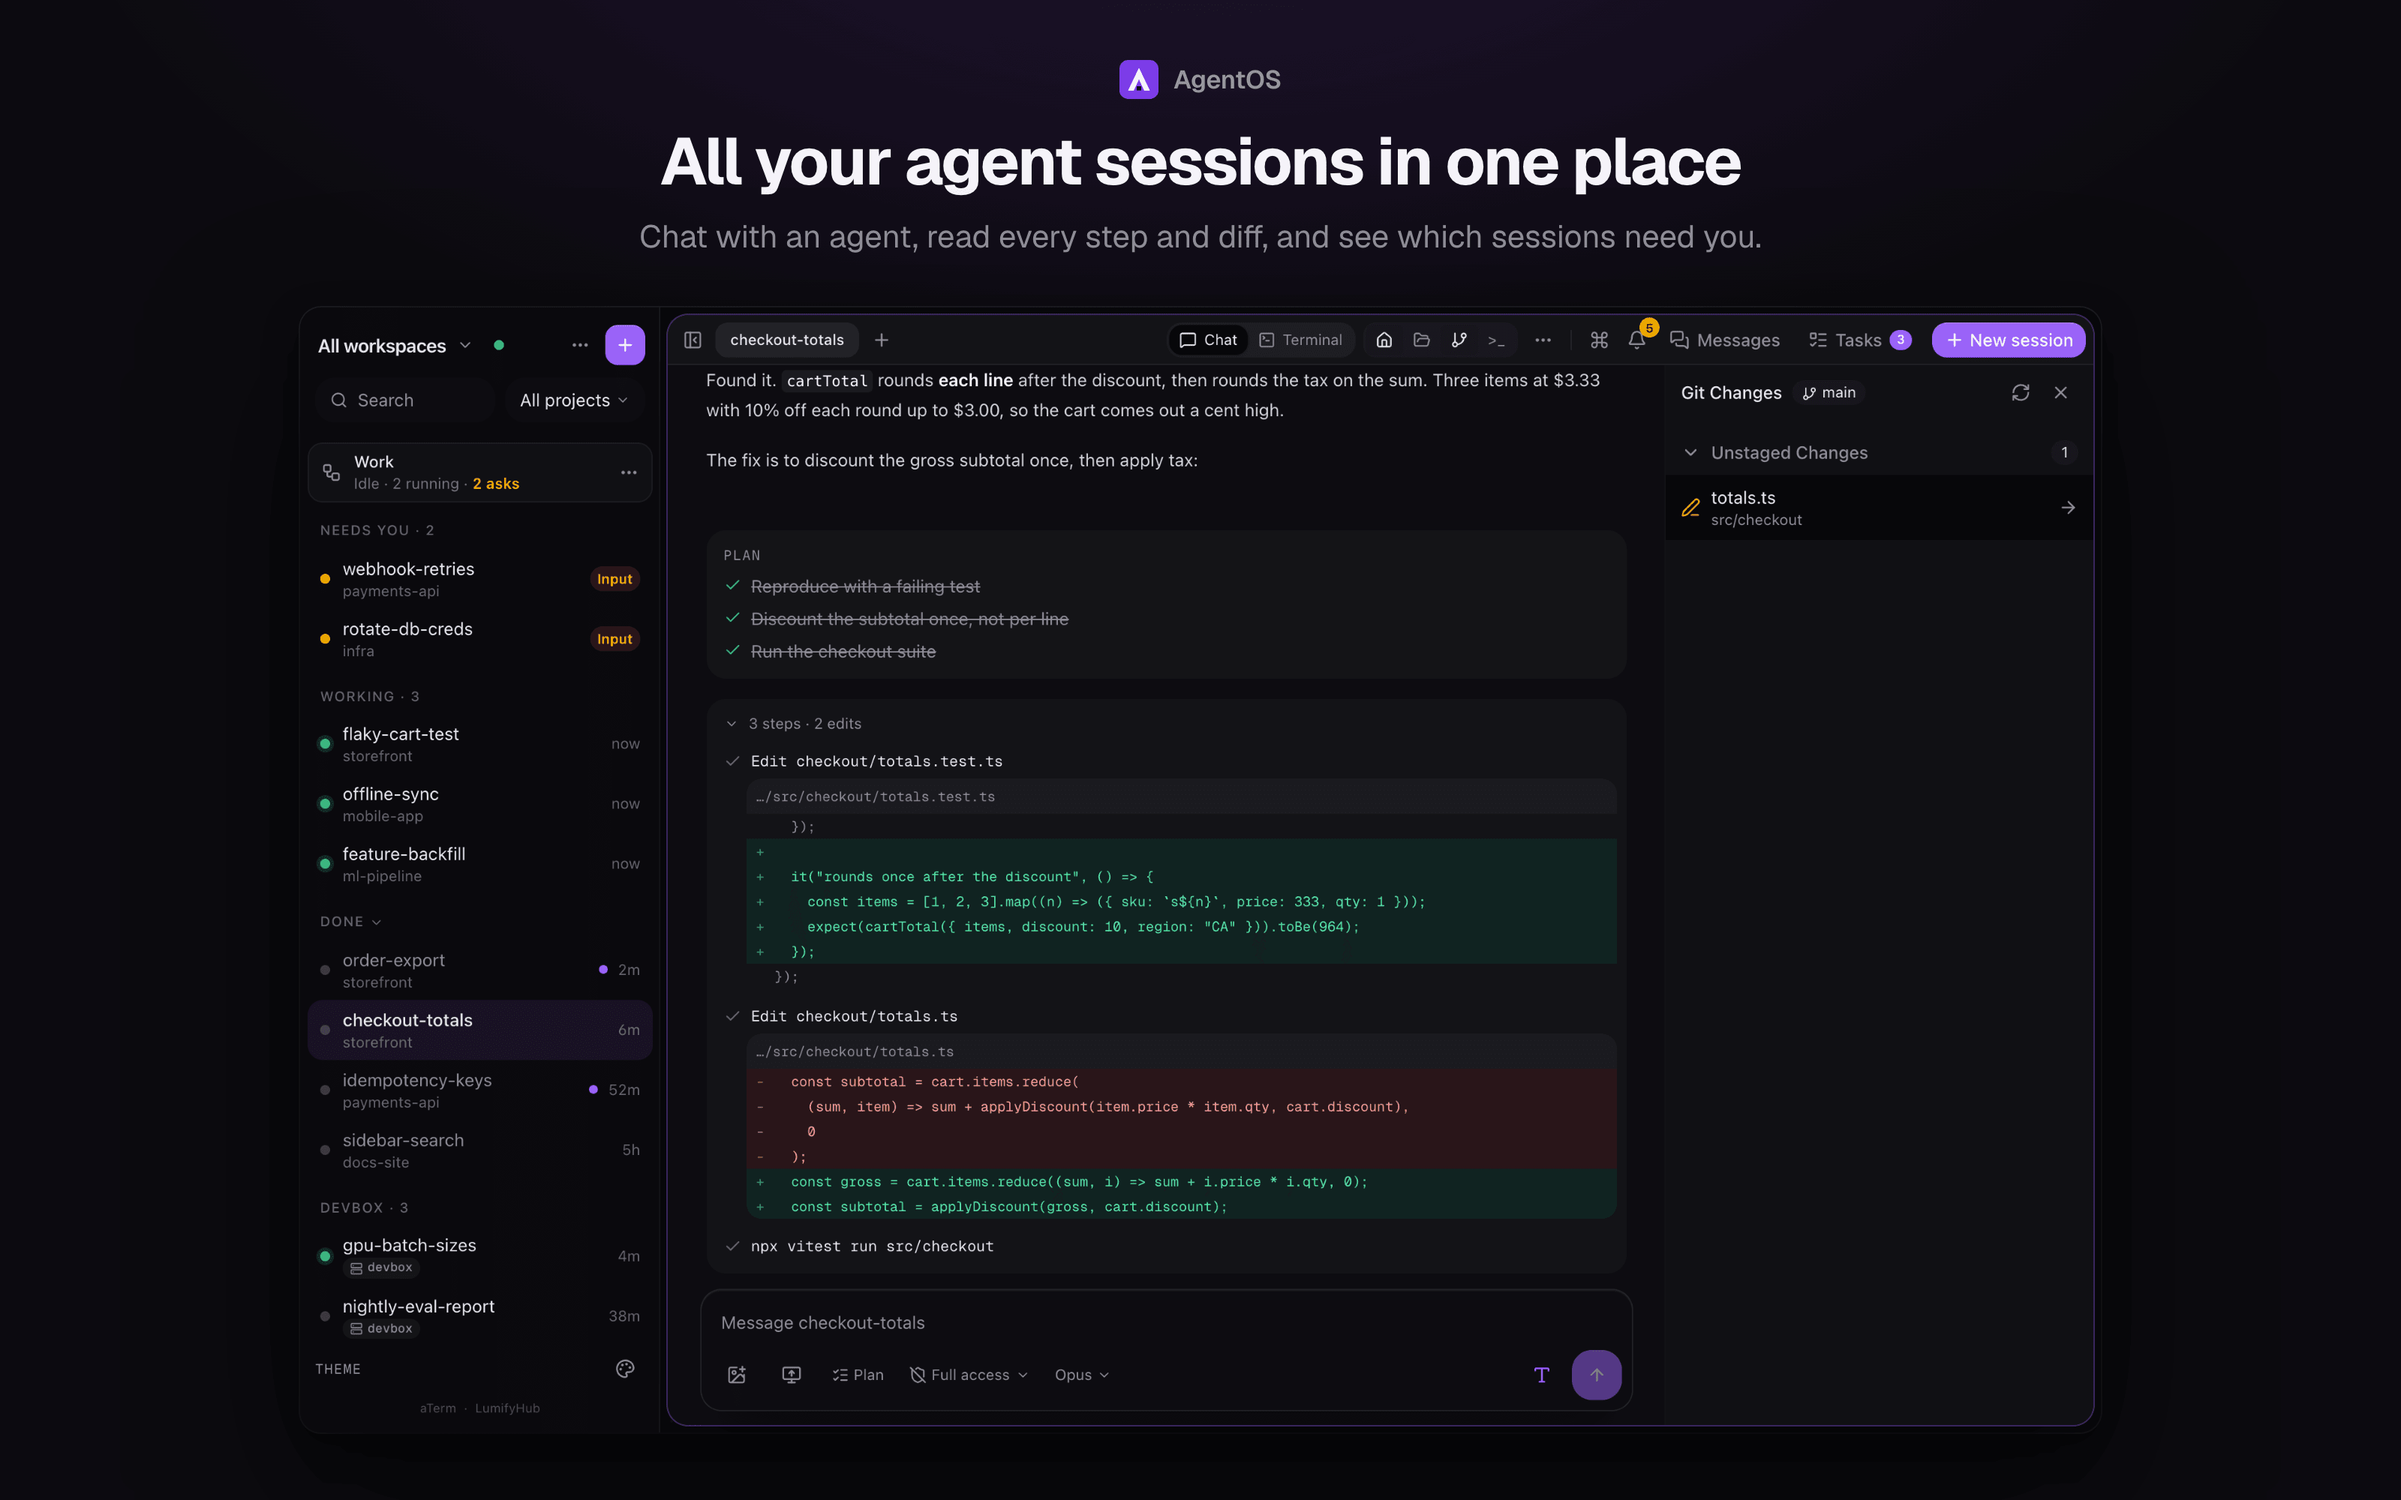
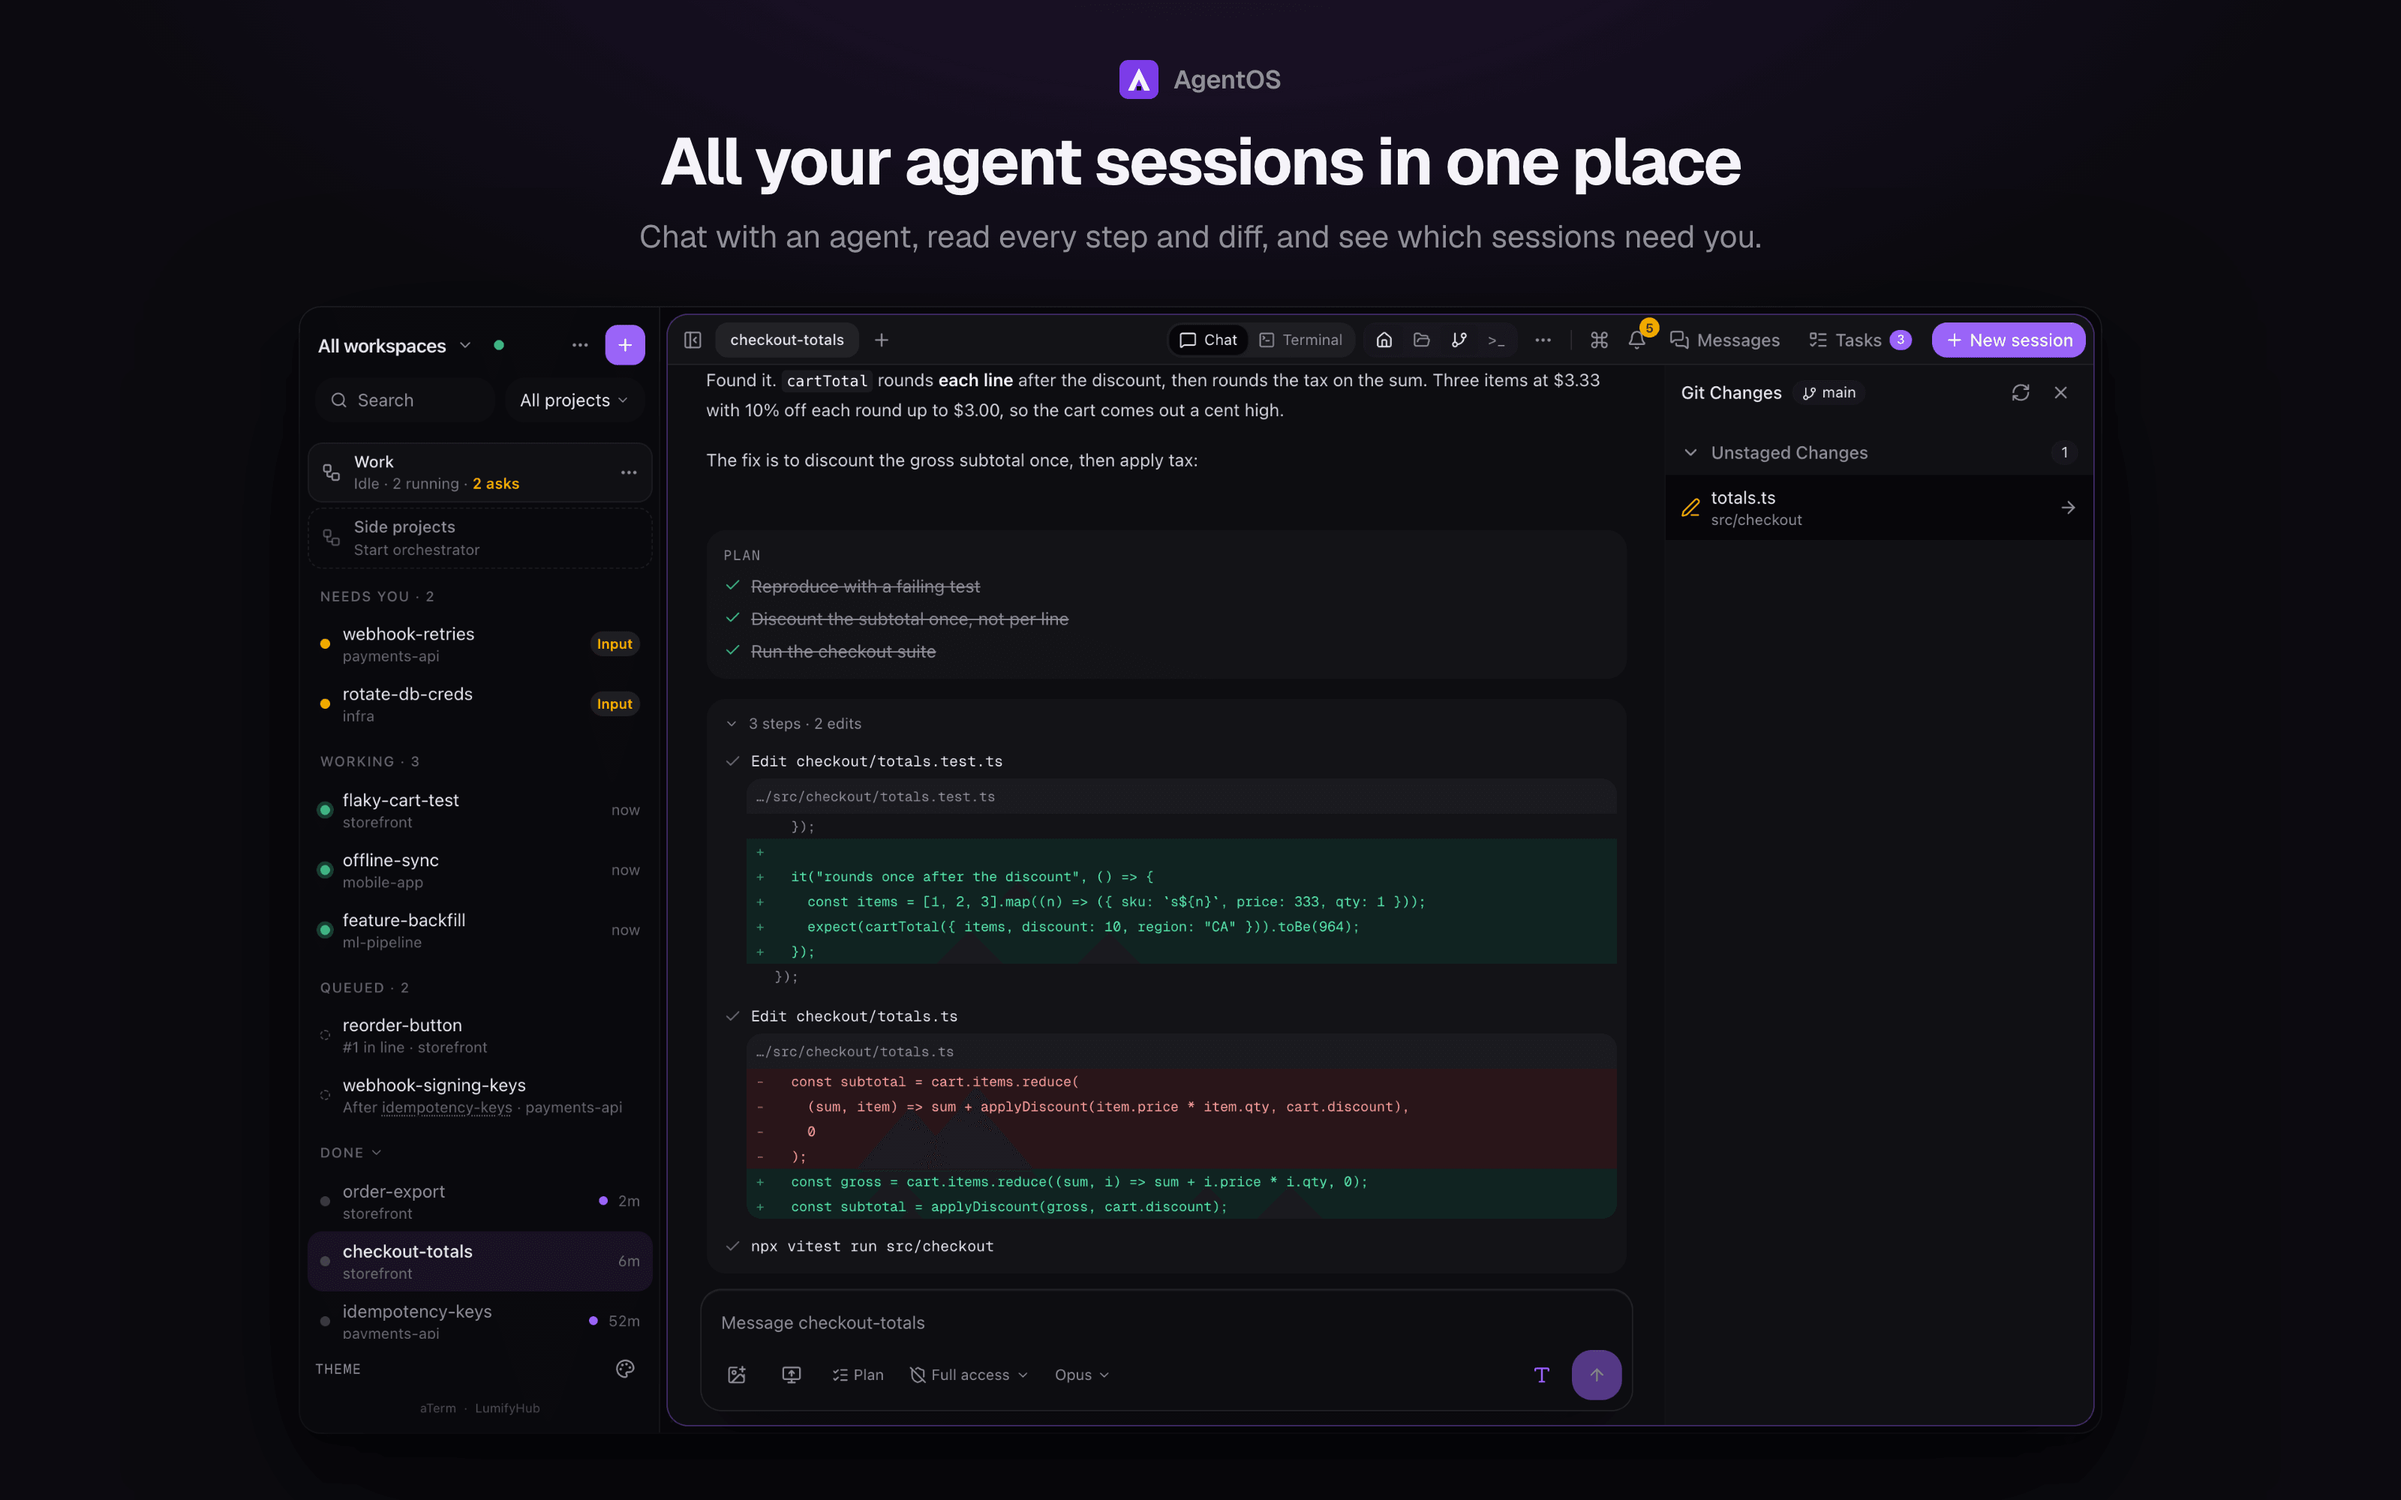
docs(readme): queued tasks and starting on a linked machine; a queued-tasks screenshot
The seed queues two tasks under a Work limit below its running tasks, so
they show on the Queued shelf and never start.

diff --git a/scripts/screenshots/seed.ts b/scripts/screenshots/seed.ts
@@ -310,6 +310,7 @@ async function seedDb(): Promise<void> {
 
   seedOrchestrator(db, workspaceIds.get("Work")!, sessionIds, now);
   seedLinkedMachine(db);
+  seedQueue(db, workspaceIds.get("Work")!, projectIds, sessionIds);
 
   for (const m of BUS) {
     const name = (key: string | null) =>
@@ -379,6 +380,45 @@ function seedOrchestrator(
       `-${ask.minutesAgo} minutes`
     );
   }
+}
+
+// Two tasks waiting their turn: one in line, one until idempotency-keys is
+// finished. The limit sits below the tasks already running, so neither
+// ever starts.
+function seedQueue(
+  db: Db,
+  workspaceId: string,
+  projectIds: Map<string, string>,
+  sessionIds: Map<string, string>
+): void {
+  db.prepare(`UPDATE workspaces SET max_running_tasks = 2 WHERE id = ?`).run(
+    workspaceId
+  );
+  const insert = db.prepare(
+    `INSERT INTO task_queue (id, project_id, prompt, name, view, after_task,
+       origin_workspace_id, position, created_at)
+     VALUES (?, ?, ?, ?, 'chat', ?, ?, ?, datetime('now', ?))`
+  );
+  insert.run(
+    randomUUID(),
+    projectIds.get("storefront"),
+    "Add a Reorder button to past orders.",
+    "reorder-button",
+    null,
+    workspaceId,
+    1,
+    "-7 minutes"
+  );
+  insert.run(
+    randomUUID(),
+    projectIds.get("payments-api"),
+    "Read the webhook signing keys from the secrets store, not the env.",
+    "webhook-signing-keys",
+    sessionIds.get("idem"),
+    workspaceId,
+    2,
+    "-5 minutes"
+  );
 }
 
 // A machine linked to its own AgentOS: the stand-in in peer.ts.

diff --git a/scripts/screenshots/shots.ts b/scripts/screenshots/shots.ts
@@ -214,4 +214,22 @@ export const SHOTS: Shot[] = [
       },
     ],
   },
+  {
+    name: "queued",
+    parts: [
+      {
+        id: "desktop",
+        device: "desktop",
+        keepFocus: true,
+        setup: async (page) => {
+          await openSession(page, CHAT);
+          await closeGitDrawer(page);
+          await page
+            .getByText("webhook-signing-keys", { exact: true })
+            .click({ button: "right" });
+          await page.waitForTimeout(800);
+        },
+      },
+    ],
+  },
 ];

diff --git a/scripts/screenshots/frame.ts b/scripts/screenshots/frame.ts
@@ -70,6 +70,12 @@ const CAPTIONS: Record<string, Caption> = {
       "A linked machine's sessions sit next to yours, and open, rename and finish the same way.",
     layout: "window",
   },
+  queued: {
+    headline: "Tasks wait their turn",
+    subline:
+      "Over the workspace's task limit, or after another task, a task queues and starts on its own.",
+    layout: "window",
+  },
   terminal: {
     headline: "The terminal is always there",
     subline:

diff --git a/README.md b/README.md
@@ -29,13 +29,13 @@ sensitive or large PRs wait for you too. [More](#orchestrator)
 
 A task gets its own git worktree, branch and ports, opens as a chat, runs
 the project's code review before it opens its PR, and waits for your
-sign-off. A workspace can cap how many tasks run at once; the rest queue
-and start in order, and `aos task --after` holds one until another finishes.
-[More](#tasks)
+sign-off. A workspace's **Task limit** caps how many run at once; the rest
+wait under **Queued** with their place in line and start on their own, and
+`aos task --after` holds one until another finishes. [More](#tasks)
 
 ![A task's chat: the edit, the tests, the code review and the PR it opened](screenshots/task-chat.png)
 
-![Tasks in different states: needs input, working, merged](screenshots/tasks.png)
+![Two queued tasks in the sidebar, one in line and one waiting on another task, with its menu open](screenshots/queued.png)
 
 ### Nothing starts until you send
 
@@ -50,8 +50,10 @@ and base branch are chips on it, model and access sit under the composer, and
 
 Link another machine that runs AgentOS and its sessions show up next to
 yours, with the same rows, menu and address. Their chats and terminals are
-relayed through this server, new sessions and tasks can start there, and a
-running terminal task can move between machines. [More](#machines)
+relayed through this server. Pick the machine on a draft to start a session
+or task there, even for a project that only lives here (it finds or clones
+the repository), and move a running terminal task between machines.
+[More](#machines)
 
 ![A linked machine's sessions listed under its name in the sidebar](screenshots/machines.png)
 
@@ -364,6 +366,8 @@ this repository's CI fails one too. The review agents are in
 [.claude/skills](.claude/skills/README.md).
 
 Requires the GitHub CLI (`gh`) signed in, and a project with a GitHub remote.
+
+![Tasks in different states: needs input, working, merged](screenshots/tasks.png)
 
 Tracking PRs stays inside GitHub's GraphQL quota (5,000 points an hour).
 Only running tasks are asked about: a finished task's PR comes from the
